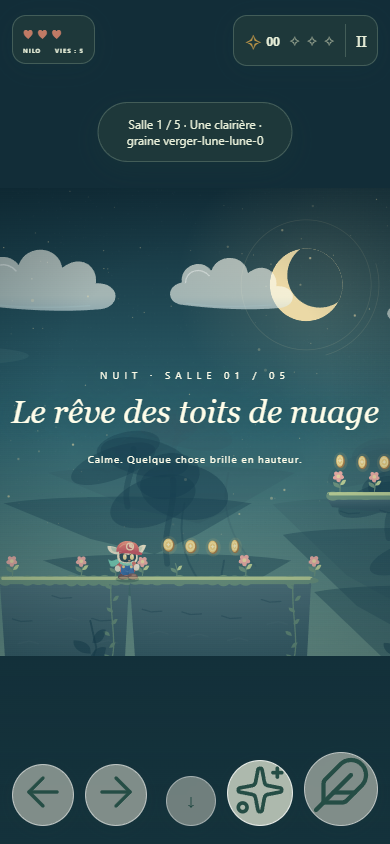
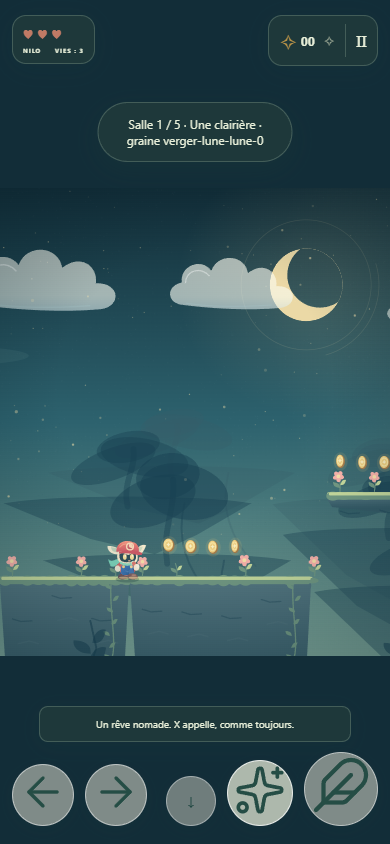
test: livrer les captures comparables et les parcours sans triche

diff --git a/LUMEN.html b/LUMEN.html
@@ -379,7 +379,8 @@ body .touch-controls button svg { width: 22px; height: 22px; flex-shrink: 0; }
 body:not(.song-playing) .touch-controls button { display: flex; align-items: center; justify-content: center; background: var(--lumen-glass); color: var(--lumen-ink); border-color: var(--lumen-line); }
 body:not(.song-playing) .touch-controls .touch-jump { background: var(--lumen-strong); color: var(--lumen-on-strong); }
 body:not(.song-playing) .touch-controls .touch-action { background: var(--lumen-coral); color: #453b3c; }
-body .chapter-pill { position: static; transform: none; min-width: 0; max-width: 340px; justify-self: center; text-align: left; background: none; padding: 8px 0; box-shadow: none; border: 0; }
+body .chapter-pill { display: flex; align-items: center; gap: 10px; position: static; transform: none; min-width: 0; max-width: 340px; justify-self: center; text-align: left; background: none; padding: 8px 0; box-shadow: none; border: 0; }
+body .hud [hidden] { display: none !important; }
 body .chapter-pill>span { font: 500 22px var(--serif); color: var(--lumen-muted); }
 body .chapter-pill strong { font: 500 18px/1.2 var(--serif); white-space: normal; }
 body .chapter-pill small { font: 500 9px var(--font); }
@@ -918,7 +919,7 @@ html[lang="ar"] :is(.song-objective p, .song-dialog-sub, .dialogue-body p) { lin
       <div class="setting"><span>Secousses et flashs</span><div class="seg" role="group" aria-label="Effets d’écran"><button data-setting="reducedEffects" data-value="false" aria-pressed="true">Normaux</button><button data-setting="reducedEffects" data-value="true" aria-pressed="false">Atténués</button></div></div>
     </div><p class="settings-note">Sur écran tactile, maintenir une direction déclenche la course toute seule : le chemin principal ne demande jamais plus de deux doigts.</p></div><p class="power-guide-note">Chaque pouvoir est temporaire : sa jauge clignote durant les 5 dernières secondes. Un grelot se relance avec X tant que vous le portez.</p><button class="button primary" data-command="close-help">C’est parti <span>→</span></button></div></section>
 
-    <section id="complete-screen" class="screen modal-screen" aria-labelledby="complete-title"><div class="modal-card complete-card"><div class="eyebrow" id="complete-eyebrow">UNE LUMIÈRE DE PLUS</div><h2 id="complete-title">Le jardin s’éveille.</h2><p id="complete-subtitle"></p><div class="achievement-row"><div id="result-medal" class="result-medal bronze"><span class="medal-emblem" aria-hidden="true">✦</span><span><small>MÉDAILLE OBTENUE</small><strong id="result-medal-name">Bronze</strong></span></div><div class="result-fragments"><div id="result-stars" class="result-stars">✧ ✧ ✧</div><small id="result-star-label">FRAGMENTS DE LUNE</small></div></div><div class="results"><div class="result-time-cell"><span id="result-mode-label">TEMPS DU VOYAGE</span><strong id="result-time">0:00.0</strong></div><div><span>ÉCLATS</span><strong id="result-coins">0</strong></div><div><span>ENNEMIS VAINCUS</span><strong id="result-enemies">0</strong></div><div><span>DÉGÂTS REÇUS</span><strong id="result-damage">0</strong></div><div><span>SCORE</span><strong id="result-score">0</strong></div><div><span id="result-best-label">OBJECTIF OR</span><strong id="result-best">—</strong></div></div><p id="result-record" class="result-record hidden" role="status">✦ Nouveau record personnel</p><p id="complete-note" class="complete-note"></p><p id="result-medal-hint" class="result-medal-hint"></p><div class="modal-actions"><button class="button primary" id="next-button" data-command="next">Le prochain jardin <span>→</span></button><div class="result-secondary-actions"><button class="button secondary" data-command="replay">Rejouer <span>↻</span></button><button class="button secondary" data-command="map">L’atlas <span>✧</span></button></div></div></div></section>
+    <section id="complete-screen" class="screen modal-screen" aria-labelledby="complete-title"><div class="modal-card complete-card"><div class="eyebrow" id="complete-eyebrow">UNE LUMIÈRE DE PLUS</div><h2 id="complete-title">Le jardin s’éveille.</h2><p id="complete-subtitle"></p><div class="achievement-row"><div id="result-medal" class="result-medal bronze"><span class="medal-emblem" aria-hidden="true">✦</span><span><small>MÉDAILLE OBTENUE</small><strong id="result-medal-name">Bronze</strong></span></div><div class="result-fragments"><div id="result-stars" class="result-stars">✧ ✧ ✧</div><small id="result-star-label">FRAGMENTS DE LUNE</small></div></div><div class="results"><div class="result-time-cell"><span id="result-mode-label">TEMPS DU VOYAGE</span><strong id="result-time">0:00.0</strong></div><div><span>NOTES</span><strong id="result-coins">0</strong></div><div><span>ENNEMIS VAINCUS</span><strong id="result-enemies">0</strong></div><div><span>DÉGÂTS REÇUS</span><strong id="result-damage">0</strong></div><div><span id="result-best-label">OBJECTIF OR</span><strong id="result-best">—</strong></div></div><p id="result-record" class="result-record hidden" role="status">✦ Nouveau record personnel</p><p id="complete-note" class="complete-note"></p><p id="result-medal-hint" class="result-medal-hint"></p><div class="modal-actions"><button class="button primary" id="next-button" data-command="next">Le prochain jardin <span>→</span></button><div class="result-secondary-actions"><button class="button secondary" data-command="replay">Rejouer <span>↻</span></button><button class="button secondary" data-command="map">L’atlas <span>✧</span></button></div></div></div></section>
     <div id="touch-controls" class="touch-controls hidden" aria-label="Commandes tactiles"><div class="touch-move"><button data-touch="left" aria-label="Aller à gauche">←</button><button data-touch="right" aria-label="Aller à droite">→</button></div><div class="touch-actions"><button data-touch="down" class="touch-minor" aria-label="Glisser">↓</button><button data-touch="action" class="touch-action" aria-label="Appeler, résonance">✦</button><button data-touch="jump" class="touch-jump" aria-label="Sauter">↑</button></div></div>
     <section id="dream-screen" class="screen modal-screen" aria-labelledby="dream-title"><div class="modal-card dream-card"><span class="modal-symbol">☾</span><div class="eyebrow">LES RÊVES NOMADES</div><h2 id="dream-title">Chaque nuit invente un chemin.</h2><p>Cinq salles, une carte à embranchements, un gardien au bout. Une nuit dure une dizaine de minutes et s’enregistre au refuge.</p>
       <div class="seed-row"><label for="seed-input">GRAINE DE LA NUIT</label><div class="seed-field"><input id="seed-input" type="text" inputmode="text" autocomplete="off" spellcheck="false" placeholder="lune-fleur-onde-3"><button class="seed-dice" id="seed-dice" type="button" aria-label="Tirer une graine au hasard">⚄</button></div><small id="seed-note">Laissez vide pour une nuit inédite. Notez la graine pour la rejouer à l’identique.</small></div>
@@ -1192,9 +1193,6 @@ window.LumenI18n.add([
   ['Informations de jeu', 'Game information', 'Información del juego', 'معلومات اللعبة', '游戏信息'],
   ['Santé', 'Health', 'Salud', 'الصحة', '生命值'],
   ['Lumen', 'Lumen', 'Lumen', 'Lumen', 'Lumen'],
-  ['5 VIES', '5 LIVES', '5 VIDAS', '5 محاولات', '5 条生命'],
-  ['VIES : {count}', 'LIVES: {count}', 'VIDAS: {count}', 'المحاولات: {count}', '生命：{count}'],
-  ['SCORE', 'SCORE', 'PUNTUACIÓN', 'النقاط', '得分'],
   ['L’éveil des jardins', 'The gardens awaken', 'El despertar de los jardines', 'استيقاظ الحدائق', '花园苏醒'],
   ['Mettre en pause', 'Pause game', 'Pausar el juego', 'إيقاف اللعبة مؤقتًا', '暂停游戏'],
   ['Chronomètre de la course', 'Time trial clock', 'Cronómetro de la carrera', 'مؤقت السباق', '竞速计时器'],
@@ -1234,7 +1232,7 @@ window.LumenI18n.add([
   ['Le monde peut attendre.', 'The world can wait.', 'El mundo puede esperar.', 'العالم يستطيع الانتظار.', '世界可以等一等。'],
   ['Une lumière renaîtra.', 'A light will shine again.', 'Una luz volverá a brillar.', 'سيولد ضوء من جديد.', '光芒会再次亮起。'],
   ['Votre lumière sera toujours là.', 'Your light will always be here.', 'Tu luz siempre estará aquí.', 'سيبقى نورك هنا دائمًا.', '你的光芒一直都在。'],
-  ['Vos fragments et les chapitres terminés sont conservés. Repartez avec cinq vies.', 'Your shards and completed chapters are safe. Start again with five lives.', 'Tus fragmentos y capítulos completados se conservan. Vuelve con cinco vidas.', 'تُحفظ شظاياك والفصول المكتملة. ابدأ من جديد بخمس محاولات.', '碎片和已完成章节都会保留。带着五条生命重新出发。'],
+  ['Vos fragments et les chapitres terminés sont conservés. Reprenez avec cinq souffles.', 'Your shards and completed chapters are safe. Return with five breaths.', 'Tus fragmentos y capítulos completados se conservan. Regresa con cinco alientos.', 'تُحفظ شظاياك والفصول المكتملة. عد بخمسة أنفاس.', '碎片和已完成章节都会保留。带着五次气息重新出发。'],
   ['Le chronomètre est en pause. Votre record attendra.', 'The clock is paused. Your record can wait.', 'El cronómetro está en pausa. Tu récord puede esperar.', 'المؤقت متوقف. رقمك القياسي سينتظر.', '计时已暂停，纪录可以等一等。'],
   ['Reprendre le voyage', 'Resume the journey', 'Retomar el viaje', 'تابع الرحلة', '继续旅程'],
   ['Recommencer le chapitre', 'Restart chapter', 'Reiniciar el capítulo', 'أعد الفصل', '重新开始章节'],
@@ -3803,7 +3801,9 @@ window.LumenI18n.add([
         { type: 'star', x: 1810, y: 184 }, { type: 'star', x: 2830, y: 221 }, { type: 'star', x: 3830, y: 282 }
       ],
       lights: [light('aya', 'Aya', 704, 350, '#ffb861', 1), light('lou', 'Lou', 2160, 265, '#88dbed', 3), light('tika', 'Tika', 3790, 335, '#efa4c7', 5)],
-      wind: [{ x: 835, y: 180, w: 230, h: 540 }, { x: 1930, y: 130, w: 335, h: 570 }, { x: 3010, y: 230, w: 330, h: 470 }],
+      wind: [{ x: 835, y: 180, w: 230, h: 540 },
+        { x: 1930, y: 130, w: 335, h: 570, id: 'recifs-courant', respondsToCall: true, drift: -150 },
+        { x: 3010, y: 230, w: 330, h: 470 }],
       wakeables: [{ type: 'bloom', x: 1380, y: 545, id: 'recifs-fleur' }, { type: 'chime', x: 2900, y: 420, id: 'recifs-cloche' }],
       checkpoints: [{ x: 1220, y: 560 }, { x: 2440, y: 530 }, { x: 3460, y: 590 }, { x: 4250, y: 600 }],
       scenery: [
@@ -3831,7 +3831,9 @@ window.LumenI18n.add([
         ...notes(4470, 433, 4), ...notes(4730, 548, 6, 42),
         { type: 'star', x: 1790, y: 181 }, { type: 'star', x: 3030, y: 192 }, { type: 'star', x: 3900, y: 240 }
       ],
-      lights: [light('sol', 'Sol', 740, 350, '#f3bd64', 0), light('neve', 'Nève', 2280, 252, '#aff0df', 3), light('orion', 'Orion', 3860, 293, '#ffb1b1', 6)],
+      lights: [light('sol', 'Sol', 740, 350, '#f3bd64', 0),
+        { ...light('neve', 'Nève', 2280, 252, '#aff0df', 3), roam: { x: 1990, y: 294, speed: 90 } },
+        light('orion', 'Orion', 3860, 293, '#ffb1b1', 6)],
       wind: [{ x: 1920, y: 175, w: 400, h: 525 }, { x: 3150, y: 180, w: 270, h: 520 }, { x: 4100, y: 260, w: 180, h: 450 }],
       wakeables: [
         { type: 'chime', x: 1820, y: 360, id: 'choeur-cloche-a' },
@@ -3862,7 +3864,9 @@ window.LumenI18n.add([
   class Journey {
     constructor(data) {
       this.index = data.index; this.style = data.style;
-      this.lights = data.lights.map(entry => ({ ...entry, found: false, followX: entry.x, followY: entry.y }));
+      this.lights = data.lights.map(entry => ({ ...entry, found: false, followX: entry.x, followY: entry.y,
+        originX: entry.x, originY: entry.y, motion: 0, drift: 0 }));
+      this.wind = data.wind.map(current => ({ ...current }));
       this.count = 0; this.combo = 0; this.comboTime = 0; this.bestCombo = 0;
       this.bloom = 0; this.celebration = 0; this.safe = null; this.returnPoint = null;
       this.trail = []; this.trailTime = 0; this.airNotes = 0;
@@ -3883,12 +3887,32 @@ window.LumenI18n.add([
       this.celebration = Math.max(0, this.celebration - dt);
       this.bloom += (this.count / this.lights.length - this.bloom) * (1 - Math.exp(-dt * 1.8));
       const player = game.player, standing = player.standingPlatform;
+      for (const current of this.wind) {
+        if (!current.respondsToCall) continue;
+        const key = 'wind:' + current.id;
+        for (const wave of game.waves) {
+          if (wave.source !== 'player' || wave.touched.has(key)) continue;
+          const nearestX = Math.max(current.x, Math.min(wave.x, current.x + current.w));
+          const nearestY = Math.max(current.y, Math.min(wave.y, current.y + current.h));
+          if (Math.hypot(nearestX - wave.x, nearestY - wave.y) > wave.radius) continue;
+          current.drift *= -1; wave.touched.add(key);
+          game.burst(nearestX, nearestY, 12, '#e5f5c5', 80, 'leaf');
+        }
+      }
       if (player.grounded && standing && standing.type === 'ground' &&
           player.x > standing.x + 20 && player.x + player.w < standing.x + standing.w - 20) {
         this.safe = { x: player.x, y: standing.y - 48 };
       }
       for (const echo of this.lights) {
         if (echo.found) continue;
+        if (echo.roam) {
+          const spanX = echo.roam.x - echo.originX, spanY = echo.roam.y - echo.originY;
+          const distance = Math.hypot(spanX, spanY);
+          echo.motion = (echo.motion + dt * echo.roam.speed / distance) % 2;
+          const fraction = echo.motion <= 1 ? echo.motion : 2 - echo.motion;
+          echo.x = echo.originX + spanX * fraction; echo.y = echo.originY + spanY * fraction;
+          echo.drift = (echo.motion < 1 ? 1 : -1) * spanX / distance;
+        }
         if (!game.waves.some(wave => Math.hypot(echo.x - wave.x, echo.y - wave.y) <= wave.radius)) continue;
         echo.found = true; this.count++; this.celebration = 2.5;
         game.addScore(750); game.burst(echo.x, echo.y, 38, echo.color, 170, 'petal');
@@ -5596,6 +5620,10 @@ window.LumenI18n.add([
     const x = found ? echo.followX : echo.x, y = (found ? echo.followY : echo.y) + Math.sin(time * 2.2 + echo.voice) * 5;
     const size = found ? .72 : 1;
     ctx.save(); ctx.translate(x, y); ctx.scale(size, size);
+    if (!found && echo.roam) for (let trail = 1; trail <= 3; trail++) {
+      ctx.save(); ctx.globalAlpha = .65 - trail * .14;
+      star(ctx, -echo.drift * (22 + trail * 13), trail * 2, 4 - trail * .5, echo.color); ctx.restore();
+    }
     if (!found) {
       ctx.strokeStyle = echo.color + '75'; ctx.lineWidth = 1.5; ctx.setLineDash([2, 7]);
       ctx.beginPath(); ctx.arc(0, 0, 32 + Math.sin(time * 2) * 2, 0, TAU); ctx.stroke(); ctx.setLineDash([]);
@@ -5747,15 +5775,17 @@ window.LumenI18n.add([
     ctx.save(); ctx.translate(0, renderer.offsetY); ctx.scale(scale, scale);
     ctx.translate(-game.camera.x + Math.sin(time * 90) * game.camera.shake, 0);
     const visible = (x, width = 0, margin = 150) => x + width > game.camera.x - margin && x < game.camera.x + renderer.worldWidth + margin;
-    for (const current of data.wind) {
+    for (const current of game.song.wind) {
       if (!visible(current.x, current.w)) continue;
       ctx.save(); ctx.beginPath(); ctx.rect(current.x, current.y, current.w, current.h); ctx.clip();
       for (let index = 0; index < 18; index++) {
-        const x = current.x + 15 + random(index + 122) * (current.w - 30);
+        const drift = current.drift || 0, lean = Math.sign(drift) * 22;
+        const x = current.x + 15 + ((random(index + 122) * (current.w - 30) + time * drift * .45) % (current.w - 30) + current.w - 30) % (current.w - 30);
         const y = current.y + current.h - ((time * (72 + index % 4 * 20) + index * 49) % current.h);
         ctx.strokeStyle = '#f5ffdc90'; ctx.lineWidth = 1.5; ctx.beginPath(); ctx.moveTo(x, y + 25);
-        ctx.quadraticCurveTo(x + 11, y + 13, x + 2, y - 12); ctx.stroke();
-        if (index % 3 === 0) leaf(ctx, x, y, 7, -.3, '#e7f9c9');
+        ctx.quadraticCurveTo(x + 11 + lean * .5, y + 13, x + 2 + lean, y - 12); ctx.stroke();
+        if (drift) stroke(ctx, [[x + lean - 5, y - 8], [x + lean + 2, y - 12], [x + lean + 6, y - 5]], '#f5ffdc', 1.5);
+        if (index % 3 === 0) leaf(ctx, x, y, 7, drift ? Math.sign(drift) * .85 : -.3, '#e7f9c9');
       }
       ctx.restore();
     }
@@ -6469,6 +6499,7 @@ window.LumenI18n.add([
         if (p.coyote > 0) this.jump(false);
         else if ((p.power === 'breeze' || this.level.song) && p.airJumps < 1) this.jump(true);
       }
+      let windDrift = 0;
       if (p.wet) {
         p.vy += 500 * dt;
         if (input.down('jump')) { p.vy -= 1120 * dt; p.vy = Math.max(p.vy, -310); p.grounded = false; }
@@ -6484,8 +6515,8 @@ window.LumenI18n.add([
           p.vy = Math.min(140, p.vy);
         }
         if (this.level.song && input.down('jump') && !input.down('down')) {
-          const wind = (this.level.song.wind || []).find(current => overlap(p, current));
-          if (wind) { p.vy = approach(p.vy, -310, 4000 * dt); p.gliding = true; }
+          const wind = (this.song?.wind || this.level.song.wind || []).find(current => overlap(p, current));
+          if (wind) { p.vy = approach(p.vy, -310, 4000 * dt); p.gliding = true; windDrift = wind.drift || 0; }
         }
       }
       if (p.dashTime > 0) {
@@ -6514,11 +6545,12 @@ window.LumenI18n.add([
         }
       }
       const oldY = p.y, oldBottom = p.y + p.h, wasGrounded = p.grounded;
-      p.x += p.vx * dt;
+      const horizontalSpeed = p.vx + windDrift;
+      p.x += horizontalSpeed * dt;
       for (const ground of this.platforms) {
         if (!ground.active || ground.type !== 'ground' || !overlap(p,ground)) continue;
         if (oldBottom <= ground.y + 5 || p.y >= ground.y + ground.h - 3) continue;
-        if (p.vx > 0) p.x = ground.x - p.w; else if (p.vx < 0) p.x = ground.x + ground.w;
+        if (horizontalSpeed > 0) p.x = ground.x - p.w; else if (horizontalSpeed < 0) p.x = ground.x + ground.w;
         p.vx = 0;
       }
       p.x = clamp(p.x, 0, this.level.width - p.w); p.y += p.vy * dt;
@@ -7530,7 +7562,7 @@ window.LumenIcons = {"map":"<svg viewBox=\"0 0 24 24\" fill=\"none\" stroke=\"cu
     else if (mode==='paused'||mode==='gameover') {
       showScreen('pause');const over=mode==='gameover';
       $('pause-title').textContent=over?'Une lumière renaîtra.':'Le monde peut attendre.';
-      $('pause-screen').querySelector('.modal-card>p').textContent=over?'Vos fragments et les chapitres terminés sont conservés. Repartez avec cinq vies.':game.runMode==='timed'?'Le chronomètre est en pause. Votre record attendra.':'Votre lumière sera toujours là.';
+      $('pause-screen').querySelector('.modal-card>p').textContent=over?'Vos fragments et les chapitres terminés sont conservés. Reprenez avec cinq souffles.':game.runMode==='timed'?'Le chronomètre est en pause. Votre record attendra.':'Votre lumière sera toujours là.';
       $('pause-screen').querySelector('[data-command="resume"]').classList.toggle('hidden',over);
       // Une nuit perdue n'est pas un chapitre perdu : on la refait telle quelle
       // avec sa graine, ou on en demande une autre. Deux décisions, deux boutons.
@@ -7774,8 +7806,14 @@ window.LumenIcons = {"map":"<svg viewBox=\"0 0 24 24\" fill=\"none\" stroke=\"cu
       $('remaining-lives').textContent=translate('Souffles restants : {count}',{count:Math.max(0,game.lives)});
       $('coin-count').textContent=String(game.levelCoins).padStart(2,'0');
       $('star-count').textContent=game.levelStars+' / '+totalFragments;$('star-count').setAttribute('aria-label',translate('{count} fragments sur {total}',{count:game.levelStars,total:totalFragments}));
-      $('chapter-number').textContent=String(game.levelIndex+1).padStart(2,'0');$('chapter-name').textContent=translate(game.level.name);
-      $('chapter-caption').textContent=translate(game.runMode==='timed'?'CONTRE-LA-MONTRE':'LES JARDINS DE LA LUNE');
+      $('star-count').parentElement.hidden=totalFragments===0;
+      const chapter=game.session==='campaign';
+      $('chapter-number').hidden=!chapter;
+      $('chapter-number').textContent=chapter?String(window.LUMEN_LEVELS.slice(0,game.levelIndex+1).filter(level=>!level.hub).length).padStart(2,'0'):'';
+      $('chapter-name').textContent=translate(game.level.name);
+      $('chapter-caption').textContent=game.level.hub?translate('L’OBSERVATOIRE'):game.level.expedition
+        ?translate('NUIT · SALLE {room} / {total}',{room:String((game.run?.roomIndex||0)+1).padStart(2,'0'),total:String(game.run?.plan.rooms.length||5).padStart(2,'0')})
+        :translate(game.runMode==='timed'?'CONTRE-LA-MONTRE':'LES JARDINS DE LA LUNE');
     }
     if(game.runMode==='timed') {
       $('clock-time').textContent=timeLabel(game.elapsed,true);
@@ -7846,7 +7884,7 @@ window.LumenIcons = {"map":"<svg viewBox=\"0 0 24 24\" fill=\"none\" stroke=\"cu
     const targets=game.level.medalTargets;
     const best=game.recordFor(result.index)?.bestTimedTime;
     $('result-stars').innerHTML=stars(result.stars,total);$('result-star-label').textContent=translate('{count} / {total} FRAGMENTS DE LUNE',{count:result.stars,total});
-    $('result-coins').textContent=result.coins;$('result-time').textContent=timeLabel(result.time,true);$('result-score').textContent=I18n.number(result.score);
+    $('result-coins').textContent=result.coins;$('result-time').textContent=timeLabel(result.time,true);
     $('result-enemies').textContent=result.enemiesDefeated||0;$('result-damage').textContent=result.damageTaken||0;
     $('result-medal').className='result-medal '+medal;$('result-medal-name').textContent=medals[medal];
     $('result-mode-label').textContent=result.timed?'CONTRE-LA-MONTRE':'TEMPS DU VOYAGE';

diff --git a/index.html b/index.html
@@ -89,7 +89,7 @@
       <div class="setting"><span>Secousses et flashs</span><div class="seg" role="group" aria-label="Effets d’écran"><button data-setting="reducedEffects" data-value="false" aria-pressed="true">Normaux</button><button data-setting="reducedEffects" data-value="true" aria-pressed="false">Atténués</button></div></div>
     </div><p class="settings-note">Sur écran tactile, maintenir une direction déclenche la course toute seule : le chemin principal ne demande jamais plus de deux doigts.</p></div><p class="power-guide-note">Chaque pouvoir est temporaire : sa jauge clignote durant les 5 dernières secondes. Un grelot se relance avec X tant que vous le portez.</p><button class="button primary" data-command="close-help">C’est parti <span>→</span></button></div></section>
 
-    <section id="complete-screen" class="screen modal-screen" aria-labelledby="complete-title"><div class="modal-card complete-card"><div class="eyebrow" id="complete-eyebrow">UNE LUMIÈRE DE PLUS</div><h2 id="complete-title">Le jardin s’éveille.</h2><p id="complete-subtitle"></p><div class="achievement-row"><div id="result-medal" class="result-medal bronze"><span class="medal-emblem" aria-hidden="true">✦</span><span><small>MÉDAILLE OBTENUE</small><strong id="result-medal-name">Bronze</strong></span></div><div class="result-fragments"><div id="result-stars" class="result-stars">✧ ✧ ✧</div><small id="result-star-label">FRAGMENTS DE LUNE</small></div></div><div class="results"><div class="result-time-cell"><span id="result-mode-label">TEMPS DU VOYAGE</span><strong id="result-time">0:00.0</strong></div><div><span>ÉCLATS</span><strong id="result-coins">0</strong></div><div><span>ENNEMIS VAINCUS</span><strong id="result-enemies">0</strong></div><div><span>DÉGÂTS REÇUS</span><strong id="result-damage">0</strong></div><div><span>SCORE</span><strong id="result-score">0</strong></div><div><span id="result-best-label">OBJECTIF OR</span><strong id="result-best">—</strong></div></div><p id="result-record" class="result-record hidden" role="status">✦ Nouveau record personnel</p><p id="complete-note" class="complete-note"></p><p id="result-medal-hint" class="result-medal-hint"></p><div class="modal-actions"><button class="button primary" id="next-button" data-command="next">Le prochain jardin <span>→</span></button><div class="result-secondary-actions"><button class="button secondary" data-command="replay">Rejouer <span>↻</span></button><button class="button secondary" data-command="map">L’atlas <span>✧</span></button></div></div></div></section>
+    <section id="complete-screen" class="screen modal-screen" aria-labelledby="complete-title"><div class="modal-card complete-card"><div class="eyebrow" id="complete-eyebrow">UNE LUMIÈRE DE PLUS</div><h2 id="complete-title">Le jardin s’éveille.</h2><p id="complete-subtitle"></p><div class="achievement-row"><div id="result-medal" class="result-medal bronze"><span class="medal-emblem" aria-hidden="true">✦</span><span><small>MÉDAILLE OBTENUE</small><strong id="result-medal-name">Bronze</strong></span></div><div class="result-fragments"><div id="result-stars" class="result-stars">✧ ✧ ✧</div><small id="result-star-label">FRAGMENTS DE LUNE</small></div></div><div class="results"><div class="result-time-cell"><span id="result-mode-label">TEMPS DU VOYAGE</span><strong id="result-time">0:00.0</strong></div><div><span>NOTES</span><strong id="result-coins">0</strong></div><div><span>ENNEMIS VAINCUS</span><strong id="result-enemies">0</strong></div><div><span>DÉGÂTS REÇUS</span><strong id="result-damage">0</strong></div><div><span id="result-best-label">OBJECTIF OR</span><strong id="result-best">—</strong></div></div><p id="result-record" class="result-record hidden" role="status">✦ Nouveau record personnel</p><p id="complete-note" class="complete-note"></p><p id="result-medal-hint" class="result-medal-hint"></p><div class="modal-actions"><button class="button primary" id="next-button" data-command="next">Le prochain jardin <span>→</span></button><div class="result-secondary-actions"><button class="button secondary" data-command="replay">Rejouer <span>↻</span></button><button class="button secondary" data-command="map">L’atlas <span>✧</span></button></div></div></div></section>
     <div id="touch-controls" class="touch-controls hidden" aria-label="Commandes tactiles"><div class="touch-move"><button data-touch="left" aria-label="Aller à gauche">←</button><button data-touch="right" aria-label="Aller à droite">→</button></div><div class="touch-actions"><button data-touch="down" class="touch-minor" aria-label="Glisser">↓</button><button data-touch="action" class="touch-action" aria-label="Appeler, résonance">✦</button><button data-touch="jump" class="touch-jump" aria-label="Sauter">↑</button></div></div>
     <section id="dream-screen" class="screen modal-screen" aria-labelledby="dream-title"><div class="modal-card dream-card"><span class="modal-symbol">☾</span><div class="eyebrow">LES RÊVES NOMADES</div><h2 id="dream-title">Chaque nuit invente un chemin.</h2><p>Cinq salles, une carte à embranchements, un gardien au bout. Une nuit dure une dizaine de minutes et s’enregistre au refuge.</p>
       <div class="seed-row"><label for="seed-input">GRAINE DE LA NUIT</label><div class="seed-field"><input id="seed-input" type="text" inputmode="text" autocomplete="off" spellcheck="false" placeholder="lune-fleur-onde-3"><button class="seed-dice" id="seed-dice" type="button" aria-label="Tirer une graine au hasard">⚄</button></div><small id="seed-note">Laissez vide pour une nuit inédite. Notez la graine pour la rejouer à l’identique.</small></div>

diff --git a/js/ui.js b/js/ui.js
@@ -48,7 +48,7 @@
     else if (mode==='paused'||mode==='gameover') {
       showScreen('pause');const over=mode==='gameover';
       $('pause-title').textContent=over?'Une lumière renaîtra.':'Le monde peut attendre.';
-      $('pause-screen').querySelector('.modal-card>p').textContent=over?'Vos fragments et les chapitres terminés sont conservés. Repartez avec cinq vies.':game.runMode==='timed'?'Le chronomètre est en pause. Votre record attendra.':'Votre lumière sera toujours là.';
+      $('pause-screen').querySelector('.modal-card>p').textContent=over?'Vos fragments et les chapitres terminés sont conservés. Reprenez avec cinq souffles.':game.runMode==='timed'?'Le chronomètre est en pause. Votre record attendra.':'Votre lumière sera toujours là.';
       $('pause-screen').querySelector('[data-command="resume"]').classList.toggle('hidden',over);
       // Une nuit perdue n'est pas un chapitre perdu : on la refait telle quelle
       // avec sa graine, ou on en demande une autre. Deux décisions, deux boutons.
@@ -292,8 +292,14 @@
       $('remaining-lives').textContent=translate('Souffles restants : {count}',{count:Math.max(0,game.lives)});
       $('coin-count').textContent=String(game.levelCoins).padStart(2,'0');
       $('star-count').textContent=game.levelStars+' / '+totalFragments;$('star-count').setAttribute('aria-label',translate('{count} fragments sur {total}',{count:game.levelStars,total:totalFragments}));
-      $('chapter-number').textContent=String(game.levelIndex+1).padStart(2,'0');$('chapter-name').textContent=translate(game.level.name);
-      $('chapter-caption').textContent=translate(game.runMode==='timed'?'CONTRE-LA-MONTRE':'LES JARDINS DE LA LUNE');
+      $('star-count').parentElement.hidden=totalFragments===0;
+      const chapter=game.session==='campaign';
+      $('chapter-number').hidden=!chapter;
+      $('chapter-number').textContent=chapter?String(window.LUMEN_LEVELS.slice(0,game.levelIndex+1).filter(level=>!level.hub).length).padStart(2,'0'):'';
+      $('chapter-name').textContent=translate(game.level.name);
+      $('chapter-caption').textContent=game.level.hub?translate('L’OBSERVATOIRE'):game.level.expedition
+        ?translate('NUIT · SALLE {room} / {total}',{room:String((game.run?.roomIndex||0)+1).padStart(2,'0'),total:String(game.run?.plan.rooms.length||5).padStart(2,'0')})
+        :translate(game.runMode==='timed'?'CONTRE-LA-MONTRE':'LES JARDINS DE LA LUNE');
     }
     if(game.runMode==='timed') {
       $('clock-time').textContent=timeLabel(game.elapsed,true);
@@ -364,7 +370,7 @@
     const targets=game.level.medalTargets;
     const best=game.recordFor(result.index)?.bestTimedTime;
     $('result-stars').innerHTML=stars(result.stars,total);$('result-star-label').textContent=translate('{count} / {total} FRAGMENTS DE LUNE',{count:result.stars,total});
-    $('result-coins').textContent=result.coins;$('result-time').textContent=timeLabel(result.time,true);$('result-score').textContent=I18n.number(result.score);
+    $('result-coins').textContent=result.coins;$('result-time').textContent=timeLabel(result.time,true);
     $('result-enemies').textContent=result.enemiesDefeated||0;$('result-damage').textContent=result.damageTaken||0;
     $('result-medal').className='result-medal '+medal;$('result-medal-name').textContent=medals[medal];
     $('result-mode-label').textContent=result.timed?'CONTRE-LA-MONTRE':'TEMPS DU VOYAGE';

diff --git a/js/locales-classic.js b/js/locales-classic.js
@@ -32,9 +32,6 @@ window.LumenI18n.add([
   ['Informations de jeu', 'Game information', 'Información del juego', 'معلومات اللعبة', '游戏信息'],
   ['Santé', 'Health', 'Salud', 'الصحة', '生命值'],
   ['Lumen', 'Lumen', 'Lumen', 'Lumen', 'Lumen'],
-  ['5 VIES', '5 LIVES', '5 VIDAS', '5 محاولات', '5 条生命'],
-  ['VIES : {count}', 'LIVES: {count}', 'VIDAS: {count}', 'المحاولات: {count}', '生命：{count}'],
-  ['SCORE', 'SCORE', 'PUNTUACIÓN', 'النقاط', '得分'],
   ['L’éveil des jardins', 'The gardens awaken', 'El despertar de los jardines', 'استيقاظ الحدائق', '花园苏醒'],
   ['Mettre en pause', 'Pause game', 'Pausar el juego', 'إيقاف اللعبة مؤقتًا', '暂停游戏'],
   ['Chronomètre de la course', 'Time trial clock', 'Cronómetro de la carrera', 'مؤقت السباق', '竞速计时器'],
@@ -74,7 +71,7 @@ window.LumenI18n.add([
   ['Le monde peut attendre.', 'The world can wait.', 'El mundo puede esperar.', 'العالم يستطيع الانتظار.', '世界可以等一等。'],
   ['Une lumière renaîtra.', 'A light will shine again.', 'Una luz volverá a brillar.', 'سيولد ضوء من جديد.', '光芒会再次亮起。'],
   ['Votre lumière sera toujours là.', 'Your light will always be here.', 'Tu luz siempre estará aquí.', 'سيبقى نورك هنا دائمًا.', '你的光芒一直都在。'],
-  ['Vos fragments et les chapitres terminés sont conservés. Repartez avec cinq vies.', 'Your shards and completed chapters are safe. Start again with five lives.', 'Tus fragmentos y capítulos completados se conservan. Vuelve con cinco vidas.', 'تُحفظ شظاياك والفصول المكتملة. ابدأ من جديد بخمس محاولات.', '碎片和已完成章节都会保留。带着五条生命重新出发。'],
+  ['Vos fragments et les chapitres terminés sont conservés. Reprenez avec cinq souffles.', 'Your shards and completed chapters are safe. Return with five breaths.', 'Tus fragmentos y capítulos completados se conservan. Regresa con cinco alientos.', 'تُحفظ شظاياك والفصول المكتملة. عد بخمسة أنفاس.', '碎片和已完成章节都会保留。带着五次气息重新出发。'],
   ['Le chronomètre est en pause. Votre record attendra.', 'The clock is paused. Your record can wait.', 'El cronómetro está en pausa. Tu récord puede esperar.', 'المؤقت متوقف. رقمك القياسي سينتظر.', '计时已暂停，纪录可以等一等。'],
   ['Reprendre le voyage', 'Resume the journey', 'Retomar el viaje', 'تابع الرحلة', '继续旅程'],
   ['Recommencer le chapitre', 'Restart chapter', 'Reiniciar el capítulo', 'أعد الفصل', '重新开始章节'],

diff --git a/song.css b/song.css
@@ -44,7 +44,8 @@ body .touch-controls button svg { width: 22px; height: 22px; flex-shrink: 0; }
 body:not(.song-playing) .touch-controls button { display: flex; align-items: center; justify-content: center; background: var(--lumen-glass); color: var(--lumen-ink); border-color: var(--lumen-line); }
 body:not(.song-playing) .touch-controls .touch-jump { background: var(--lumen-strong); color: var(--lumen-on-strong); }
 body:not(.song-playing) .touch-controls .touch-action { background: var(--lumen-coral); color: #453b3c; }
-body .chapter-pill { position: static; transform: none; min-width: 0; max-width: 340px; justify-self: center; text-align: left; background: none; padding: 8px 0; box-shadow: none; border: 0; }
+body .chapter-pill { display: flex; align-items: center; gap: 10px; position: static; transform: none; min-width: 0; max-width: 340px; justify-self: center; text-align: left; background: none; padding: 8px 0; box-shadow: none; border: 0; }
+body .hud [hidden] { display: none !important; }
 body .chapter-pill>span { font: 500 22px var(--serif); color: var(--lumen-muted); }
 body .chapter-pill strong { font: 500 18px/1.2 var(--serif); white-space: normal; }
 body .chapter-pill small { font: 500 9px var(--font); }

diff --git a/docs/iteration-05/captures/README.md b/docs/iteration-05/captures/README.md
@@ -1,0 +1,44 @@
+# Captures Avant Et Après
+
+Captures réelles de l'édition source en `file://`, locale française, échelle
+de pixels 1. Bureau : 1440 × 900 en jour. Mobile : 390 × 844 en nuit.
+Les images avant sont prises sur un export temporaire du commit `e805bb4`.
+Les images après sont prises sur le code de l'itération 05.
+
+| Lieu | Bureau avant | Bureau après | Mobile avant | Mobile après |
+| --- | --- | --- | --- | --- |
+| Accueil | [Avant](before/desktop-home.png) | [Après](after/desktop-home.png) | [Avant](before/mobile-home.png) | [Après](after/mobile-home.png) |
+| Chapitre 1 | [Avant](before/desktop-chapter-1.png) | [Après](after/desktop-chapter-1.png) | [Avant](before/mobile-chapter-1.png) | [Après](after/mobile-chapter-1.png) |
+| Observatoire | [Avant](before/desktop-observatory.png) | [Après](after/desktop-observatory.png) | [Avant](before/mobile-observatory.png) | [Après](after/mobile-observatory.png) |
+| Salle de rêve | [Avant](before/desktop-dream.png) | [Après](after/desktop-dream.png) | [Avant](before/mobile-dream.png) | [Après](after/mobile-dream.png) |
+| Île 1 | [Avant](before/desktop-island-1.png) | [Après](after/desktop-island-1.png) | [Avant](before/mobile-island-1.png) | [Après](after/mobile-island-1.png) |
+| Île 2 | [Avant](before/desktop-island-2.png) | [Après](after/desktop-island-2.png) | [Avant](before/mobile-island-2.png) | [Après](after/mobile-island-2.png) |
+| Île 3 | [Avant](before/desktop-island-3.png) | [Après](after/desktop-island-3.png) | [Avant](before/mobile-island-3.png) | [Après](after/mobile-island-3.png) |
+
+Le [script](../../../tests/identity-captures.cjs) attend les polices, les
+premières images et la disparition des transitions, puis fige le cadrage.
+Le profil possède la quête de la coupole terminée pour accéder au rêve.
+La salle utilise la graine `verger-lune-lune-0`. L'observatoire est cadré à
+la caméra x=530, Lumen à x=710 ; les autres scènes à caméra x=0, Lumen x=180.
+L'horloge de rendu est 2 secondes. Les
+[manifestes avant](before/manifest.json) et [après](after/manifest.json)
+sont comparés automatiquement ; un écart de position ou de viewport échoue.
+
+Ces mises en place sont des fixtures de capture, **pas un playtest**. Le
+parcours séparé dans [test-browser.cjs](../../../tests/test-browser.cjs)
+ne modifie ni position, ni invulnérabilité, ni état de réussite.
+
+Pour reprendre les références, fournir un export du commit initial :
+
+```sh
+node tests/identity-captures.cjs before CHEMIN_EXPORT_E805BB4
+node tests/identity-captures.cjs after
+```
+
+La [galerie des plateformes](../platforms/measurements.json) contient aussi
+16 vues, une par thème et apparence, chacune avec les huit types.
+Exemples : [prairies jour](../platforms/light-meadow.png),
+[prairies nuit](../platforms/dark-meadow.png).
+
+Les anciennes captures ailleurs dans `docs/` sont historiques. Elles ne
+décrivent plus l'apparence livrée et ne sont pas utilisées par le jeu.
